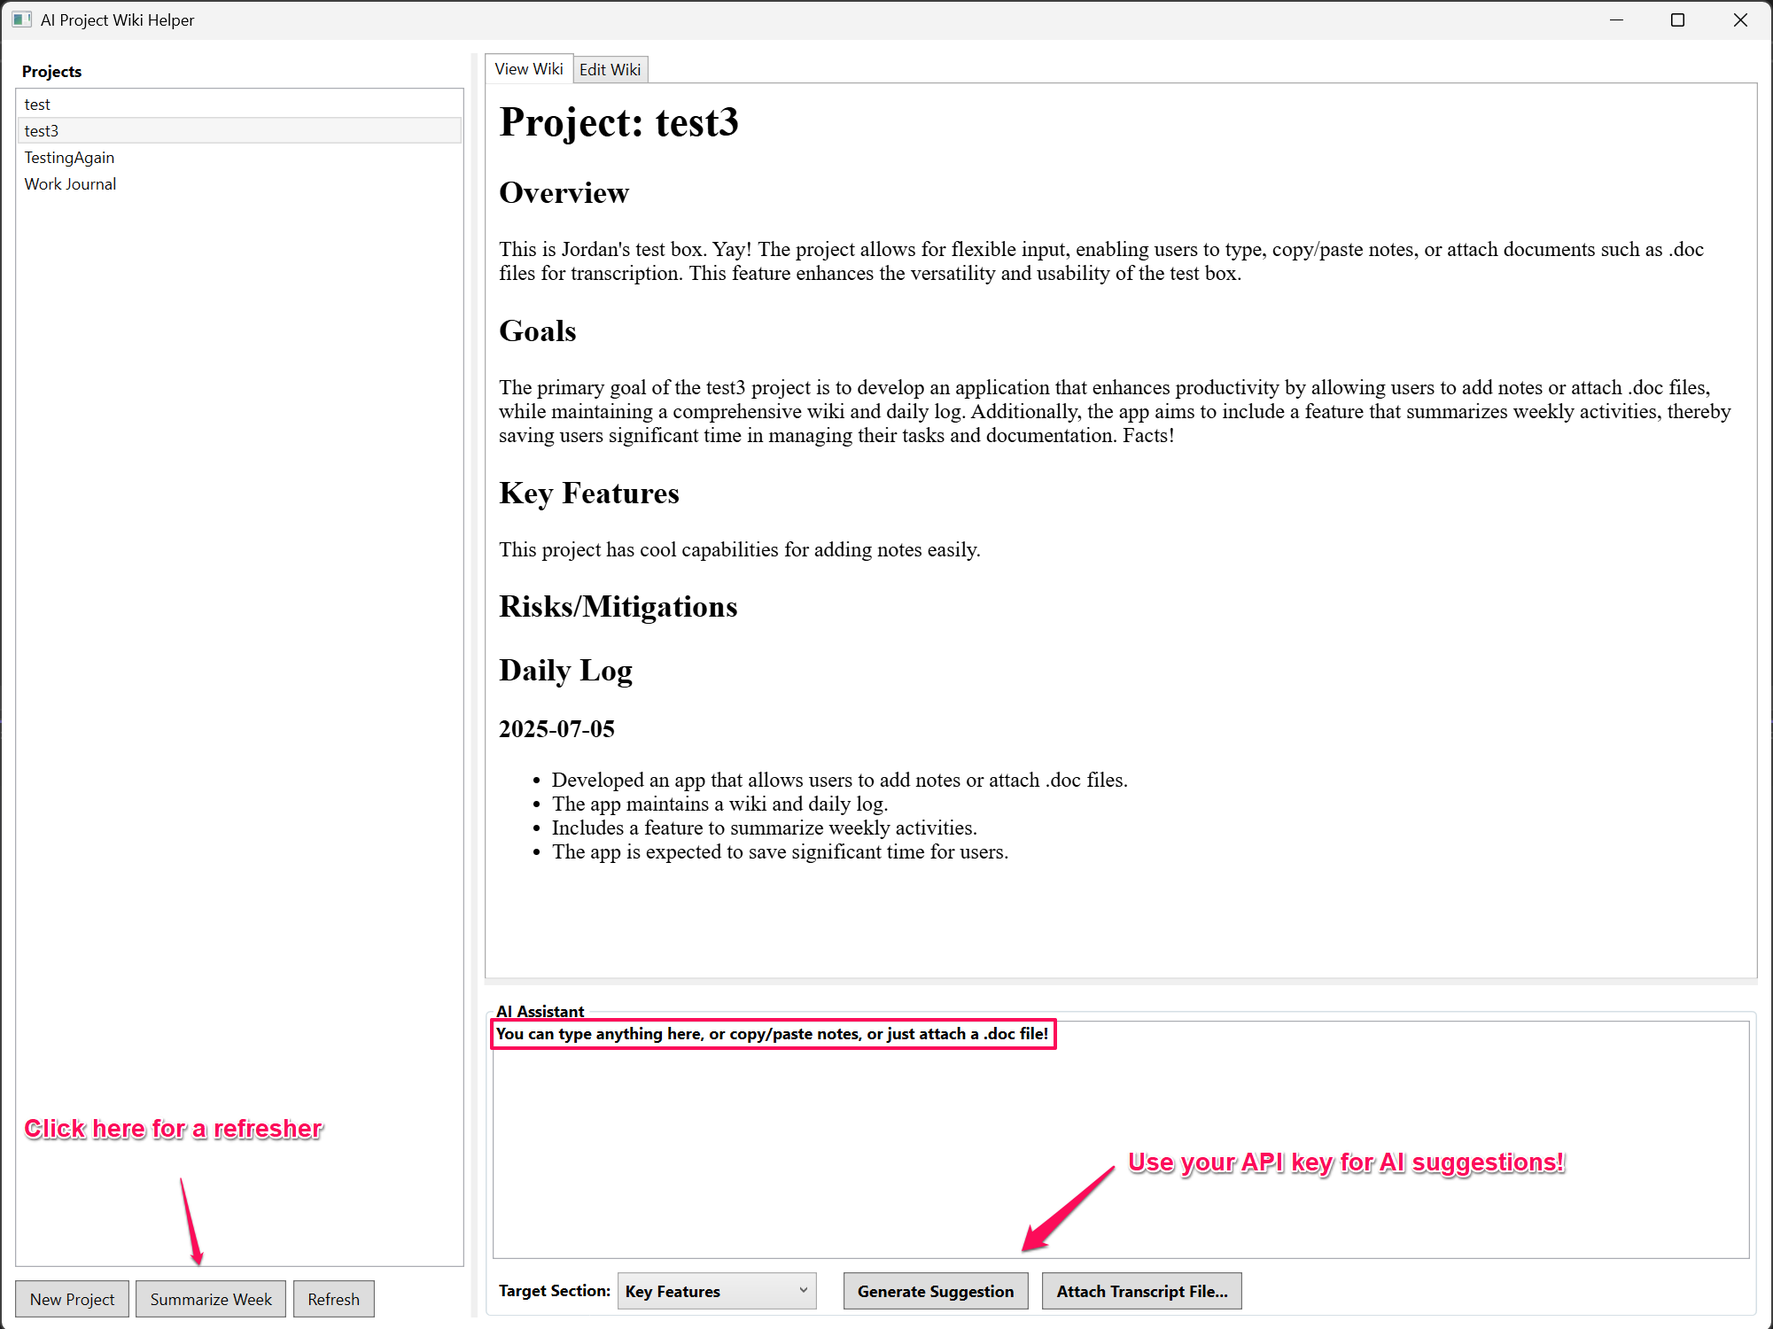
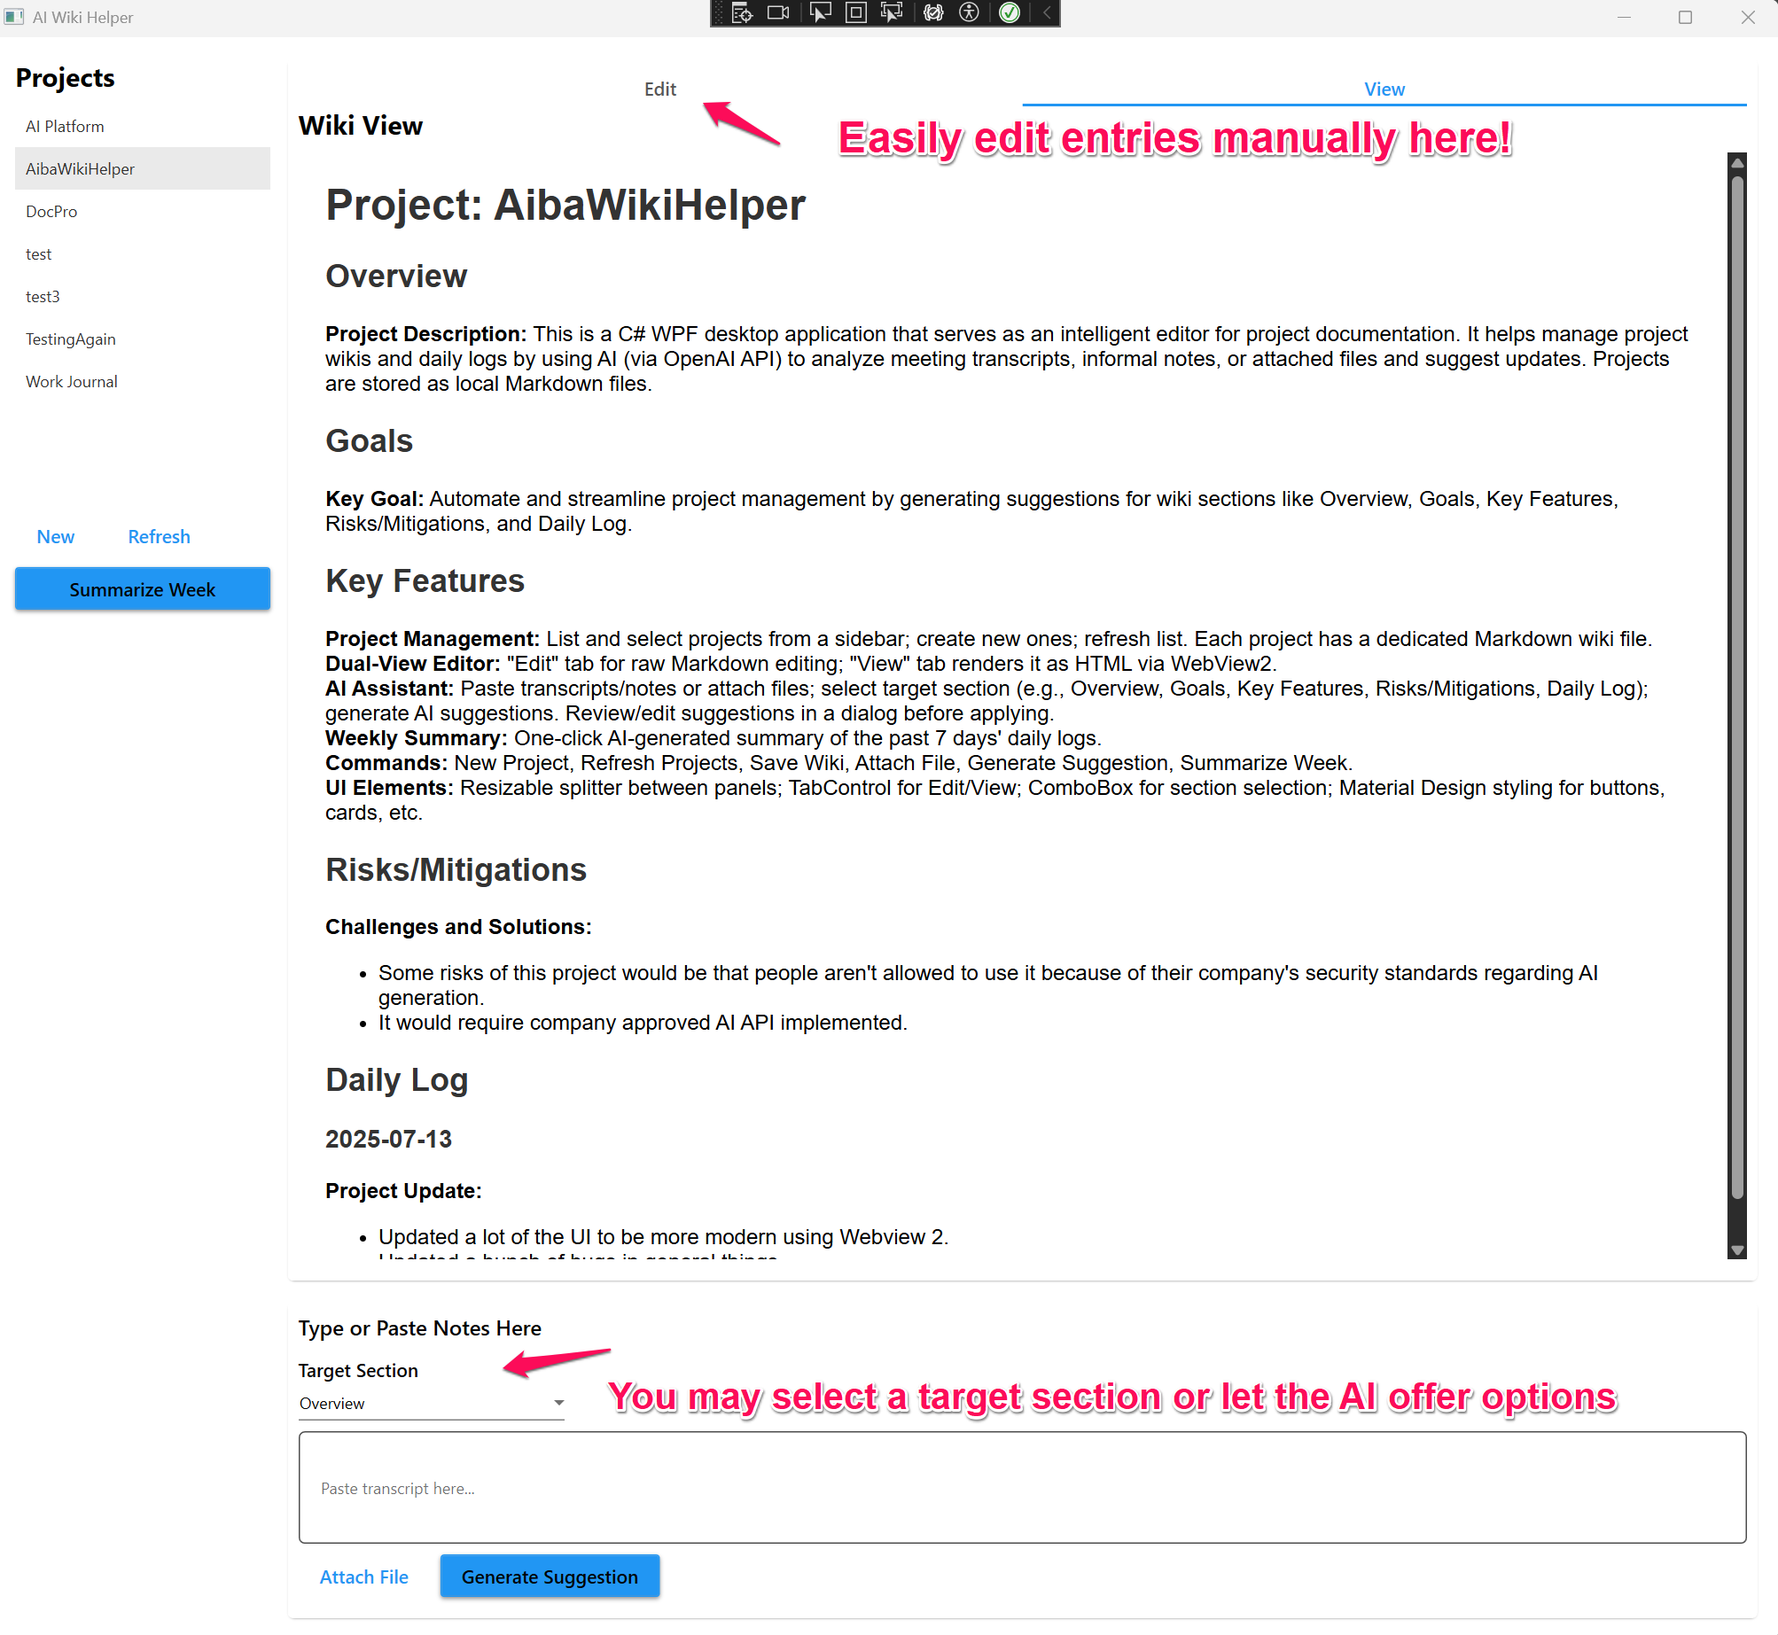
Added UI upgrades, bug fixes.

diff --git a/MultiSuggestionDialog.xaml b/MultiSuggestionDialog.xaml
@@ -1,0 +1,37 @@
+<Window x:Class="AIWikiHelper.MultiSuggestionDialog"
+        xmlns="http://schemas.microsoft.com/winfx/2006/xaml/presentation"
+        xmlns:x="http://schemas.microsoft.com/winfx/2006/xaml"
+        xmlns:mc="http://schemas.openxmlformats.org/markup-compatibility/2006" 
+        xmlns:d="http://schemas.microsoft.com/expression/blend/2008" 
+        xmlns:materialDesign="http://materialdesigninxaml.net/winfx/xaml/themes"
+        mc:Ignorable="d" 
+        Title="AI Suggestions" Height="400" Width="600"
+        WindowStartupLocation="CenterOwner">
+    <Grid Margin="16">
+        <Grid.RowDefinitions>
+            <RowDefinition Height="*" />
+            <RowDefinition Height="Auto" />
+        </Grid.RowDefinitions>
+
+        <ScrollViewer Grid.Row="0" VerticalScrollBarVisibility="Auto">
+            <ItemsControl ItemsSource="{Binding Suggestions}">
+                <ItemsControl.ItemTemplate>
+                    <DataTemplate>
+                        <materialDesign:Card Margin="0,0,0,8" Padding="8">
+                            <StackPanel>
+                                <CheckBox Content="{Binding Key}" IsChecked="{Binding IsSelected}" FontWeight="Bold" />
+                                <TextBox Text="{Binding Value}" AcceptsReturn="True" Height="100" TextWrapping="Wrap" 
+                                         VerticalScrollBarVisibility="Auto" Margin="0,8,0,0" />
+                            </StackPanel>
+                        </materialDesign:Card>
+                    </DataTemplate>
+                </ItemsControl.ItemTemplate>
+            </ItemsControl>
+        </ScrollViewer>
+
+        <StackPanel Grid.Row="1" Orientation="Horizontal" HorizontalAlignment="Right">
+            <Button Content="Apply Selected" Style="{StaticResource MaterialDesignRaisedButton}" Click="ApplyButton_Click" Margin="0,0,8,0" />
+            <Button Content="Cancel" Style="{StaticResource MaterialDesignFlatButton}" Click="CancelButton_Click" />
+        </StackPanel>
+    </Grid>
+</Window>

diff --git a/MainWindow.xaml b/MainWindow.xaml
@@ -88,7 +88,7 @@
             <!-- AI Section (Bottom) -->
             <materialDesign:Card Grid.Row="1" Padding="8">
                 <StackPanel>
-                    <TextBlock Text="AI Assistant" FontSize="16" FontWeight="SemiBold" Margin="0,0,0,4"/>
+                    <TextBlock Text="Type or Paste Notes Here" FontSize="16" FontWeight="SemiBold" Margin="0,0,0,4"/>
                     <TextBlock Text="Target Section" FontSize="14" FontWeight="SemiBold" Margin="0,8,0,4"/>
                     <!-- Label -->
                     <ComboBox Margin="0,0,0,8" Width="200" HorizontalAlignment="Left" SelectedValue="{Binding TargetSection}" SelectedValuePath="Content">
@@ -98,10 +98,12 @@
                         <ComboBoxItem Content="Risks/Mitigations"/>
                         <ComboBoxItem Content="Daily Log"/>
                     </ComboBox>
-                    <TextBox AcceptsReturn="True" Height="80" Margin="0,0,0,8"
+                    <TextBox AcceptsReturn="True" Height="85" Margin="0,0,0,8"
                              Text="{Binding TranscriptInput, UpdateSourceTrigger=PropertyChanged}"
                              Style="{StaticResource MaterialDesignOutlinedTextBox}" 
-                             materialDesign:HintAssist.Hint="Paste transcript here..."/>
+                             materialDesign:HintAssist.Hint="Paste transcript here..."
+                             VerticalScrollBarVisibility="Auto"
+                             TextWrapping="Wrap" />
                     <StackPanel Orientation="Horizontal" Margin="0,0,0,8">
                         <Button Content="Attach File" Command="{Binding AttachFileCommand}"
                                 Style="{StaticResource MaterialDesignFlatButton}" Margin="0,0,8,0"/>

diff --git a/Services/AIService.cs b/Services/AIService.cs
@@ -62,8 +62,8 @@ namespace AIWikiHelper.Services
             {
                 promptBuilder.AppendLine("\nYou are an AI assistant that helps users create clean daily log entries from raw, informal notes.");
                 promptBuilder.AppendLine("Your task is to process the user's text below and extract the key takeaways or activities.");
-                promptBuilder.AppendLine($"Format your output as a Markdown block starting with a level-3 header for today's date ({DateTime.Now:yyyy-MM-dd}), followed by a bulleted list of the key points.");
-                promptBuilder.AppendLine("Even if the text is short, do your best to summarize the main point.");
+                promptBuilder.AppendLine($"Format your output as a Markdown block starting with a level-3 header for today's date ({DateTime.Now:yyyy-MM-dd}), followed by bolded subsections (e.g., **Project Update:**, **Challenges and Solutions:**, **Development and Testing:**) with paragraphs or bullets under each.");
+                promptBuilder.AppendLine("Even if the text is short, do your best to summarize the main point in structured subsections.");
                 promptBuilder.AppendLine("If the text is truly empty or nonsensical (like 'asdfg'), then respond with 'No new log entries from this meeting.'");
                 promptBuilder.AppendLine($"\nUser's Raw Notes:\n```\n{transcript}\n```");
             }
@@ -75,6 +75,7 @@ namespace AIWikiHelper.Services
                 promptBuilder.AppendLine($"\nHere is the information from the recent meeting (Transcript):\n```\n{transcript}\n```");
                 promptBuilder.AppendLine("\nInstructions:");
                 promptBuilder.AppendLine($"Review the new information from the meeting. Suggest a complete, revised version of the ENTIRE '{targetSection}' section that integrates the new information.");
+                promptBuilder.AppendLine("Format the output with bolded subheadings for key points (e.g., **Role-Based Access:** followed by description), like a structured wiki. Use paragraphs or bullets under each subheading.");
                 promptBuilder.AppendLine("Output ONLY the complete, revised text for the content that should go *under* the header. Do NOT include the markdown header itself or any conversational preamble.");
             }
 
@@ -147,6 +148,90 @@ namespace AIWikiHelper.Services
             else
             {
                 return $"{fullText.Trim()}\n\n## {sectionTitle}\n{contentToInsert.Trim()}\n";
+            }
+        }
+
+        public string BuildBundledPrompt(string projectName, string transcript, List<string> targetSections, string currentWikiContent)
+        {
+            var promptBuilder = new StringBuilder();
+            promptBuilder.AppendLine($"You are an AI assistant that extracts and records notes from transcripts into project wiki sections FACTUALLY. Do not add insights, analysis, or new ideas—stick strictly to the transcript content.");
+            promptBuilder.AppendLine($"Project: {projectName}");
+            promptBuilder.AppendLine($"\nTranscript to extract from:\n```\n{transcript}\n```");
+            promptBuilder.AppendLine("\nFor each listed section, output EXACTLY in this format: 'SectionName:' (exact name) on one line, then the extracted/revised content on the next lines. Separate sections with a single '---' on its own line. Output NOTHING else—no introductions, summaries, or extra text.");
+            promptBuilder.AppendLine("If no relevant notes for a section, output empty content after the name (e.g., SectionName:\n<empty>).");
+            promptBuilder.AppendLine("Use bolded subheadings for key points (e.g., **Subtopic:** followed by description or bullets) to make it structured like a wiki.");
+
+            foreach (var section in targetSections)
+            {
+                if (section == "Daily Log")
+                {
+                    promptBuilder.AppendLine($"\nFor {section}: Extract key notes as bolded subsections (e.g., **Project Update:**, **Challenges and Solutions:**) with paragraphs or bullets under each, starting under '### {DateTime.Now:yyyy-MM-dd}'. Do not include the section header.");
+                }
+                else
+                {
+                    string currentContent = ExtractSectionContent(currentWikiContent, section);
+                    promptBuilder.AppendLine($"\nFor {section}: Current content:\n```\n{currentContent}\n```");
+                    promptBuilder.AppendLine("Extract relevant notes from transcript and integrate them factually into the current content (append or revise minimally with bolded subheadings like **Feature Name:**). Output only the full revised text—no header.");
+                }
+            }
+
+            return promptBuilder.ToString();
+        }
+
+        // Handles Daily Log insertions without duplicating dates
+        public string InsertDailyLogEntry(string fullText, string aiOutput)
+        {
+            if (string.IsNullOrWhiteSpace(aiOutput) || aiOutput.Contains("No new log entries"))
+            {
+                return fullText; // No changes if nothing to add
+            }
+
+            // Extract date and bullets from AI output (assumes format: ### date\nbullets)
+            var headerMatch = Regex.Match(aiOutput.Trim(), @"^\s*###\s*(\d{4}-\d{2}-\d{2})\s*$(.*)", RegexOptions.Multiline | RegexOptions.Singleline);
+            if (!headerMatch.Success)
+            {
+                return fullText; // Invalid AI output; skip
+            }
+
+            string date = headerMatch.Groups[1].Value;
+            string bullets = headerMatch.Groups[2].Value.Trim();
+
+            string sectionTitle = "Daily Log";
+
+            // Pattern to find the Daily Log section
+            var sectionPattern = new Regex(@"^(?<header>\s*##\s*" + Regex.Escape(sectionTitle) + @"\s*$\s*)(?<content>.*?)(?=\Z|^\s*##\s)", RegexOptions.Multiline | RegexOptions.Singleline | RegexOptions.IgnoreCase);
+            var sectionMatch = sectionPattern.Match(fullText);
+
+            if (sectionMatch.Success)
+            {
+                string sectionHeader = sectionMatch.Groups["header"].Value;
+                string sectionContent = sectionMatch.Groups["content"].Value.Trim();
+
+                // Pattern for the specific date header within the section content
+                var datePattern = new Regex(@"^(?<date_header>\s*###\s*" + Regex.Escape(date) + @"\s*$\s*)(?<date_content>.*?)(?=\Z|^\s*###\s)", RegexOptions.Multiline | RegexOptions.Singleline);
+                var dateMatch = datePattern.Match(sectionContent);
+
+                string newSectionContent;
+                if (dateMatch.Success)
+                {
+                    // Append bullets to existing date's content
+                    string existingDateContent = dateMatch.Groups["date_content"].Value.Trim();
+                    string newDateContent = existingDateContent + (string.IsNullOrEmpty(existingDateContent) ? "" : "\n") + bullets;
+                    newSectionContent = datePattern.Replace(sectionContent, dateMatch.Groups["date_header"].Value + newDateContent + "\n\n", 1);
+                }
+                else
+                {
+                    // Add new date header + bullets at the end of the section
+                    newSectionContent = (sectionContent + "\n\n" + $"### {date}\n{bullets}\n").Trim();
+                }
+
+                // Rebuild the full text with updated section
+                return sectionPattern.Replace(fullText, sectionHeader + newSectionContent + "\n\n", 1);
+            }
+            else
+            {
+                // No Daily Log section; add it with the new entry
+                return $"{fullText.Trim()}\n\n## {sectionTitle}\n### {date}\n{bullets}\n";
             }
         }
     }

diff --git a/ViewModels/MainViewModel.cs b/ViewModels/MainViewModel.cs
@@ -156,7 +156,24 @@ namespace AIWikiHelper.ViewModels
         {
             LoadProjectList();
         }
+        private Dictionary<string, string> ParseBundledSuggestions(string bundledText)
+        {
+            var suggestions = new Dictionary<string, string>();
+            var parts = bundledText.Split(new[] { "---" }, StringSplitOptions.RemoveEmptyEntries);
 
+            foreach (var part in parts)
+            {
+                var match = Regex.Match(part.Trim(), @"^(\w+(?:\s*\w+)*?):\s*(.*)", RegexOptions.Singleline | RegexOptions.IgnoreCase);
+                if (match.Success)
+                {
+                    string section = match.Groups[1].Value.Trim();
+                    string content = match.Groups[2].Value.Trim();
+                    suggestions[section] = content;
+                }
+            }
+
+            return suggestions;
+        }
         private async Task SaveAsync()
         {
             if (string.IsNullOrEmpty(SelectedProject))
@@ -189,20 +206,43 @@ namespace AIWikiHelper.ViewModels
 
             try
             {
-                string prompt = _aiService.BuildPrompt(SelectedProject, TranscriptInput, TargetSection, WikiContent);
-                string suggestion = await _aiService.GetAiSuggestionAsync(prompt);
+                // Enhanced auto-detect: Allow multiple sections
+                string classificationPrompt = $"Classify this transcript into RELEVANT wiki sections (up to 3) from: Overview, Goals, Key Features, Risks/Mitigations, Daily Log. Output ONLY a comma-separated list of exact section names (no explanations, e.g., 'Daily Log, Risks/Mitigations'). If only one, just output that.\nTranscript: {TranscriptInput}";
+                string suggestedSectionsStr = (await _aiService.GetAiSuggestionAsync(classificationPrompt)).Trim();
 
-                if (string.IsNullOrWhiteSpace(suggestion))
+                // Parse and validate sections
+                var suggestedSections = suggestedSectionsStr.Split(',').Select(s => s.Trim()).ToList();
+                var validSections = new[] { "Overview", "Goals", "Key Features", "Risks/Mitigations", "Daily Log" };
+                suggestedSections = suggestedSections.Where(validSections.Contains).ToList(); // Filter invalid
+
+                if (!suggestedSections.Any())
+                {
+                    suggestedSections.Add("Daily Log"); // Default
+                    MessageBox.Show("AI couldn't classify; defaulting to 'Daily Log'.", "Info", MessageBoxButton.OK, MessageBoxImage.Information);
+                }
+
+                // Build bundled prompt for multiple sections
+                string bundledPrompt = _aiService.BuildBundledPrompt(SelectedProject, TranscriptInput, suggestedSections, WikiContent);
+
+                string bundledSuggestion = await _aiService.GetAiSuggestionAsync(bundledPrompt);
+
+                if (string.IsNullOrWhiteSpace(bundledSuggestion))
                 {
                     MessageBox.Show("AI returned an empty suggestion.", "No Suggestion", MessageBoxButton.OK, MessageBoxImage.Information);
                     return;
                 }
 
-                var dialog = new SuggestionDialog(suggestion);
+                // Parse bundled response
+                var suggestions = ParseBundledSuggestions(bundledSuggestion);
+
+                // Show multi-suggestion dialog
+                var dialog = new MultiSuggestionDialog(suggestions);
                 if (dialog.ShowDialog() == true)
                 {
-                    string finalSuggestion = dialog.EditedSuggestion; // Assuming this property exists
-                    ApplySuggestion(TargetSection, finalSuggestion);
+                    foreach (var kvp in dialog.ApprovedSuggestions)
+                    {
+                        ApplySuggestion(kvp.Key, kvp.Value);
+                    }
                 }
             }
             catch (Exception ex)
@@ -225,7 +265,7 @@ namespace AIWikiHelper.ViewModels
                     MessageBox.Show("No new log entries to add.", "Info", MessageBoxButton.OK, MessageBoxImage.Information);
                     return;
                 }
-                WikiContent = _aiService.InsertIntoSection(WikiContent, "Daily Log", suggestion);
+                WikiContent = _aiService.InsertDailyLogEntry(WikiContent, suggestion);
             }
             else
             {

diff --git a/MultiSuggestionDialog.xaml.cs b/MultiSuggestionDialog.xaml.cs
@@ -1,0 +1,73 @@
+using System;
+using System.Collections.Generic;
+using System.Collections.ObjectModel;
+using System.ComponentModel;
+using System.Windows;
+
+namespace AIWikiHelper
+{
+    public partial class MultiSuggestionDialog : Window
+    {
+        public Dictionary<string, string> ApprovedSuggestions { get; private set; }
+
+        public ObservableCollection<SuggestionItem> Suggestions { get; } = new ObservableCollection<SuggestionItem>();
+
+        public MultiSuggestionDialog(Dictionary<string, string> initialSuggestions)
+        {
+            InitializeComponent();
+            DataContext = this;
+
+            foreach (var kvp in initialSuggestions)
+            {
+                Suggestions.Add(new SuggestionItem { Key = kvp.Key, Value = kvp.Value, IsSelected = true });
+            }
+        }
+
+        private void ApplyButton_Click(object sender, RoutedEventArgs e)
+        {
+            ApprovedSuggestions = new Dictionary<string, string>();
+            foreach (var item in Suggestions)
+            {
+                if (item.IsSelected)
+                {
+                    ApprovedSuggestions[item.Key] = item.Value;
+                }
+            }
+            DialogResult = true;
+            Close();
+        }
+
+        private void CancelButton_Click(object sender, RoutedEventArgs e)
+        {
+            DialogResult = false;
+            Close();
+        }
+    }
+
+    public class SuggestionItem : INotifyPropertyChanged
+    {
+        private string _key;
+        public string Key
+        {
+            get => _key;
+            set { _key = value; OnPropertyChanged(nameof(Key)); }
+        }
+
+        private string _value;
+        public string Value
+        {
+            get => _value;
+            set { _value = value; OnPropertyChanged(nameof(Value)); }
+        }
+
+        private bool _isSelected;
+        public bool IsSelected
+        {
+            get => _isSelected;
+            set { _isSelected = value; OnPropertyChanged(nameof(IsSelected)); }
+        }
+
+        public event PropertyChangedEventHandler PropertyChanged;
+        protected void OnPropertyChanged(string propertyName) => PropertyChanged?.Invoke(this, new PropertyChangedEventArgs(propertyName));
+    }
+}
